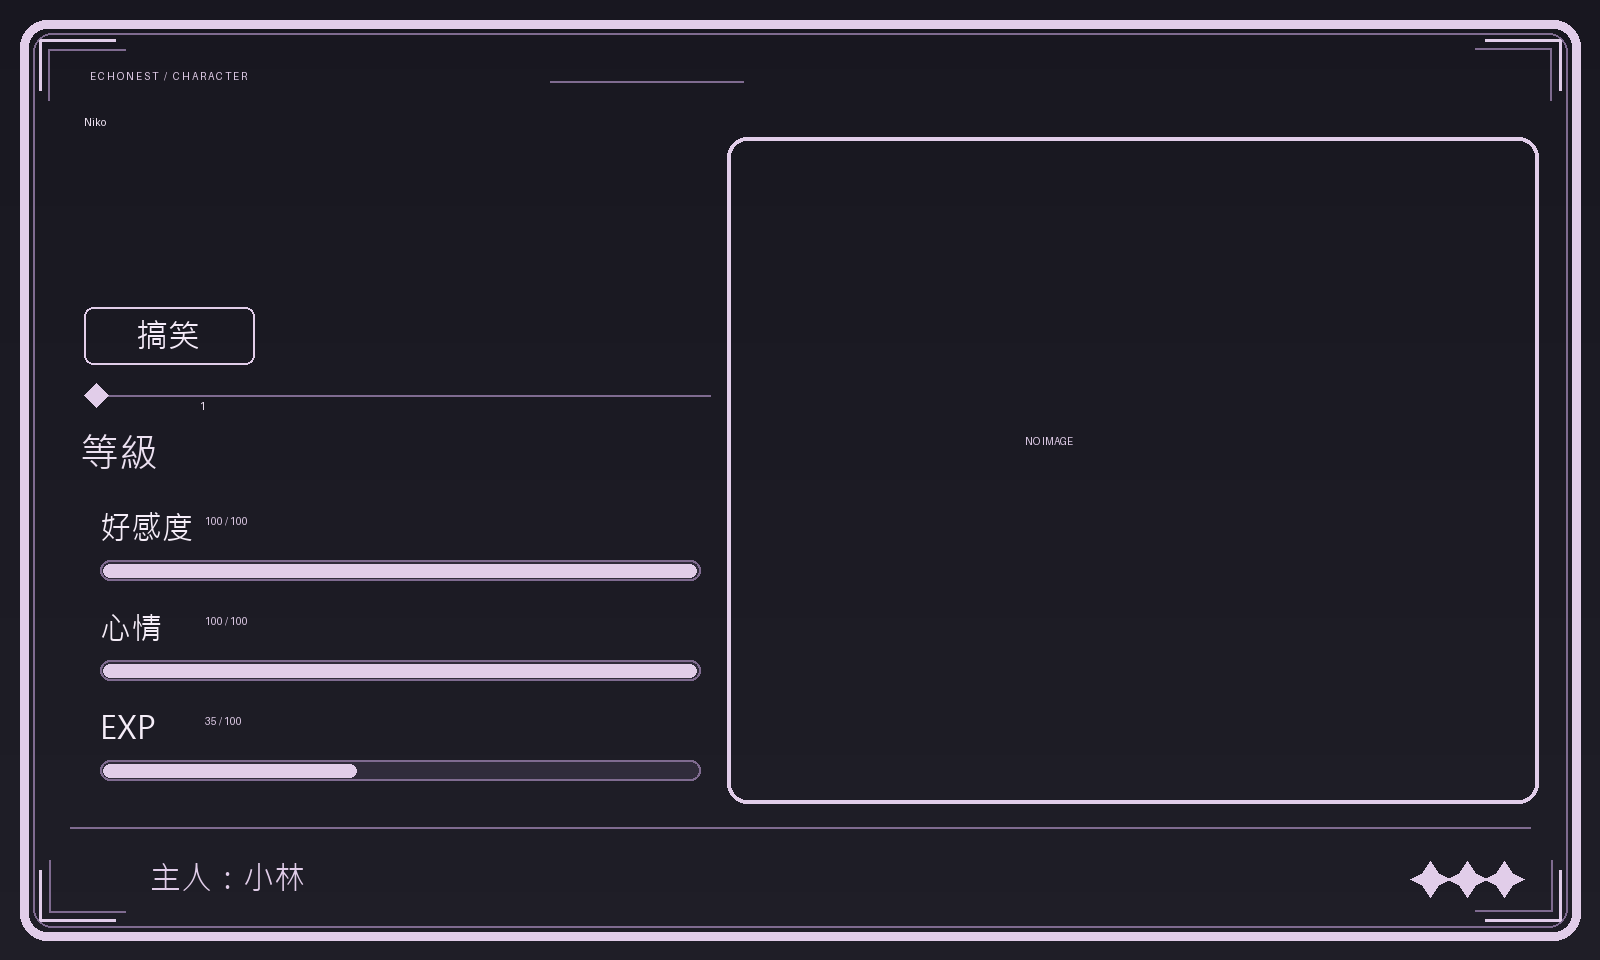
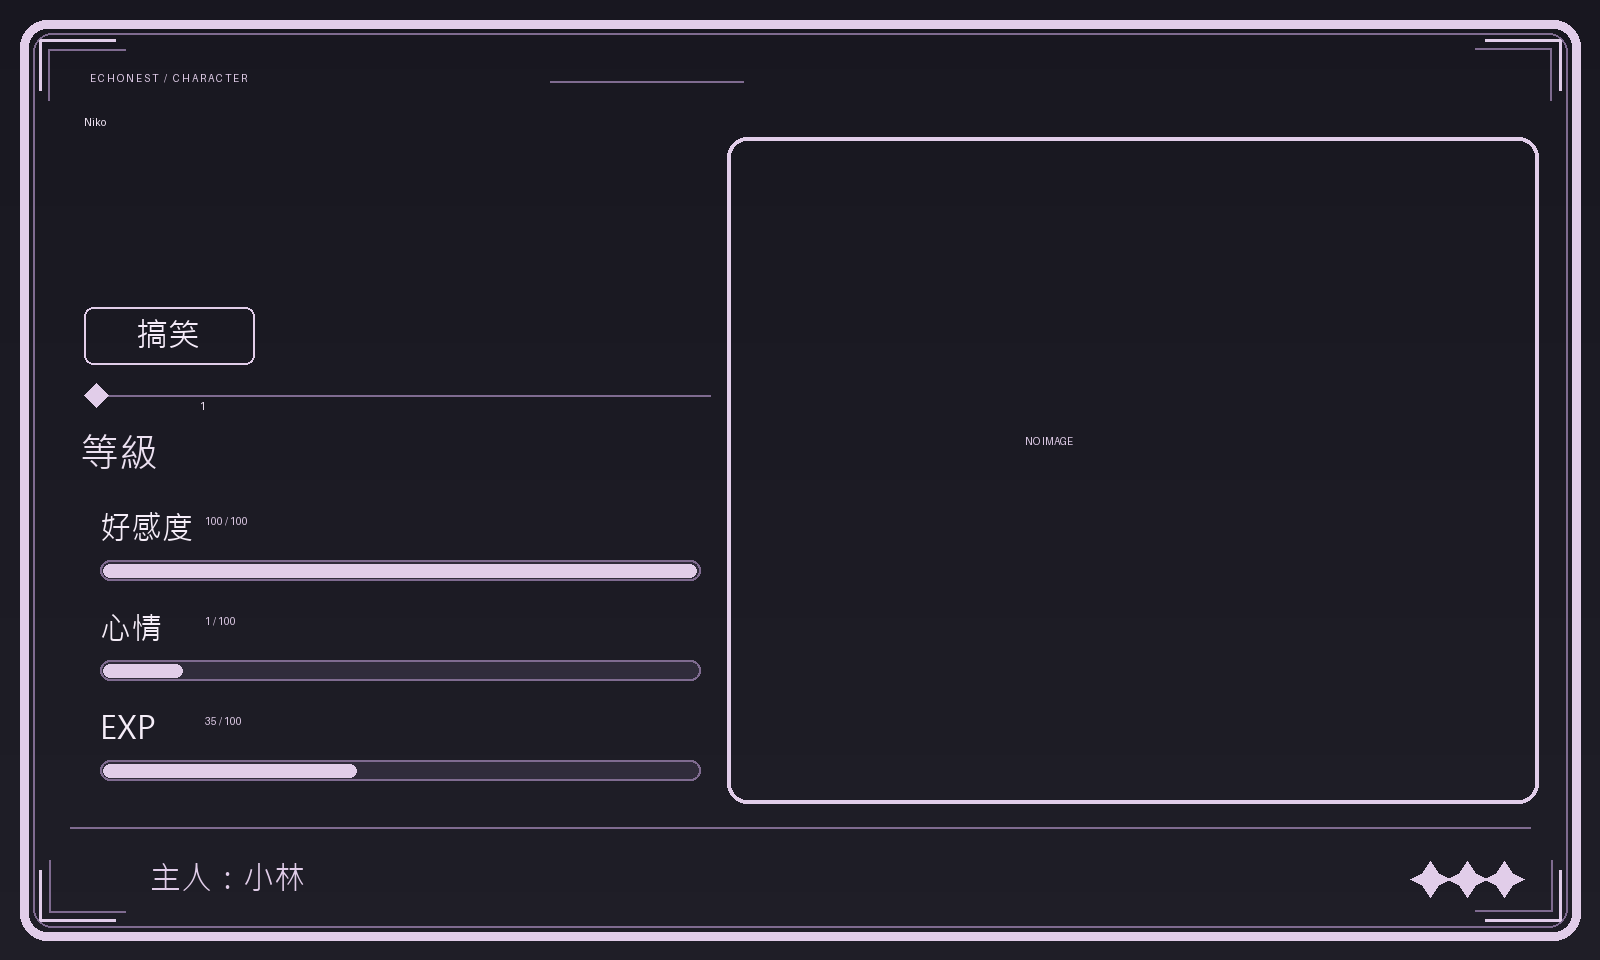
efsf

diff --git a/bot.py b/bot.py
@@ -396,7 +396,7 @@ Character context: {character['name'][:30]}, {character['personality'][:50]}.
 
 QUALITY: Beautiful expressive eyes, meticulously rendered hair, sophisticated muted
 color harmony, soft cinematic lighting, delicate rim light, atmospheric background,
-professional finish appropriate to selected medium. Preserve described character,
+professional finish appropriate to selected medium. imprtant! Preserve all described character,
 style and action;One character, no text, logos, watermarks, extra limbs or distorted face.
 """.strip()[:1500]
 

diff --git a/character_card.py b/character_card.py
@@ -136,7 +136,7 @@ if __name__ == "__main__":
     NAME = "Niko"
     PERSONALITY = "搞笑"
     OWNER = "小林"
-    MOOD = 100
+    MOOD = 1
     AFFECTION = 100
     LEVEL = 1
     EXP = 35
